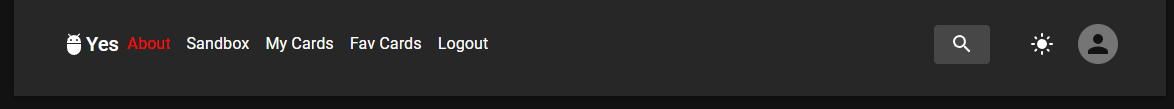
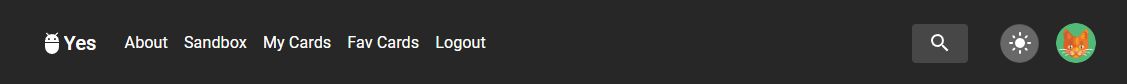
Final

Changed region(s): [[0.7764, 0.2143, 0.9938, 0.7619], [0.0311, 0.3095, 0.4348, 0.6429], [0.0, 0.881, 0.9938, 0.9048]]

diff --git a/src/pages/AboutPage.jsx b/src/pages/AboutPage.jsx
@@ -32,7 +32,7 @@ const AboutPage = () => {
             <hr />
             <Typography width={"100%"} border={5} color={"#ccc"} component={"img"} src="/images/HomePage.png" />
             <h4>This is the home page where you can see all the business cards.
-                <br />If you click on the card you will be moved to the business page where you can see all the information on the business.
+                <br />If you click on the card you will be moved to the card info page where you can see all the information on the business.
                 <br />If you press on the call button you will be moved to a calling page using the business number.
                 <br />A like button will show up if you are logged in.
                 <br />An edit button will show up if the card you are viewing is your card.
@@ -58,6 +58,9 @@ const AboutPage = () => {
             <hr />
             <Typography width={"100%"} border={5} color={"#ccc"} component={"img"} src="/images/Profile.png" />
             <h4>This is the profile page where you can update your information.</h4>
+            <hr />
+            <Typography width={"100%"} border={5} color={"#ccc"} component={"img"} src="/images/CardInfo.png" />
+            <h4>This is the card info page where you can see all the business information.</h4>
             <hr />
         </Box>
     );

diff --git a/src/pages/RegisterPage.jsx b/src/pages/RegisterPage.jsx
@@ -413,7 +413,6 @@ const RegisterPage = () => {
                         <Grid item xs={12} sm={6}>
                             <TextField
                                 fullWidth
-                                required
                                 id="zipCode"
                                 label="Zip Code"
                                 name="zipCode"

diff --git a/src/pages/ProfilePage.jsx b/src/pages/ProfilePage.jsx
@@ -404,7 +404,6 @@ const ProfilePage = () => {
                         <Grid item xs={12} sm={6}>
                             <TextField
                                 fullWidth
-                                required
                                 id="zipCode"
                                 label="Zip Code"
                                 name="zipCode"

diff --git a/src/components/Navbar/MuiNavbar.jsx b/src/components/Navbar/MuiNavbar.jsx
@@ -115,7 +115,7 @@ const MuiNavbar = () => {
           </Typography>
 
           {/* main navbar */}
-          <Box sx={{ flexGrow: 1, display: { xs: "none", md: "flex" } }}>
+          <Box paddingLeft={"20px"} sx={{ flexGrow: 1, display: { xs: "none", md: "flex" } }}>
             <NavLinkComponent {...aboutPage} />
             {
               isAdmin &&
